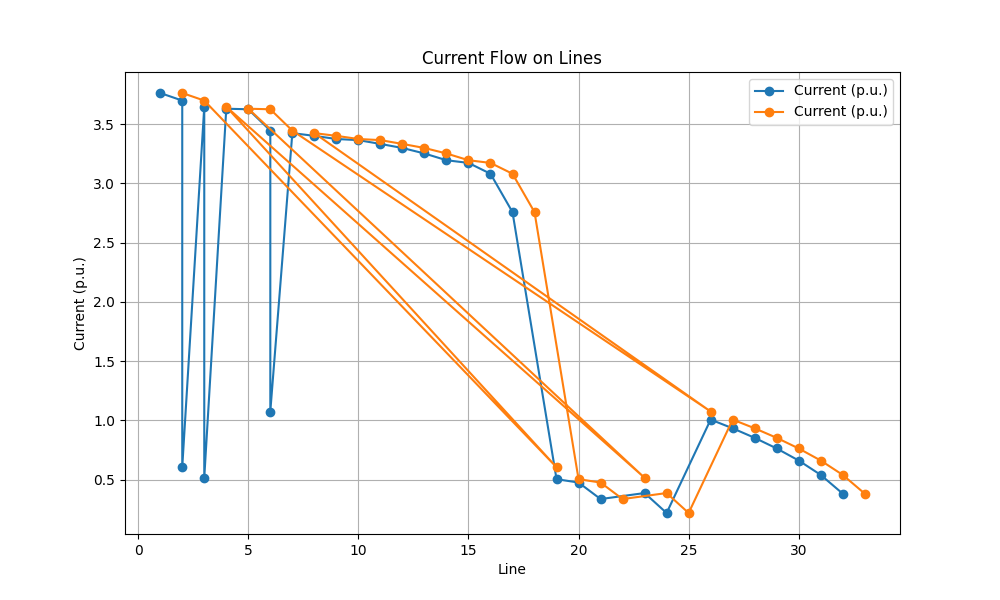
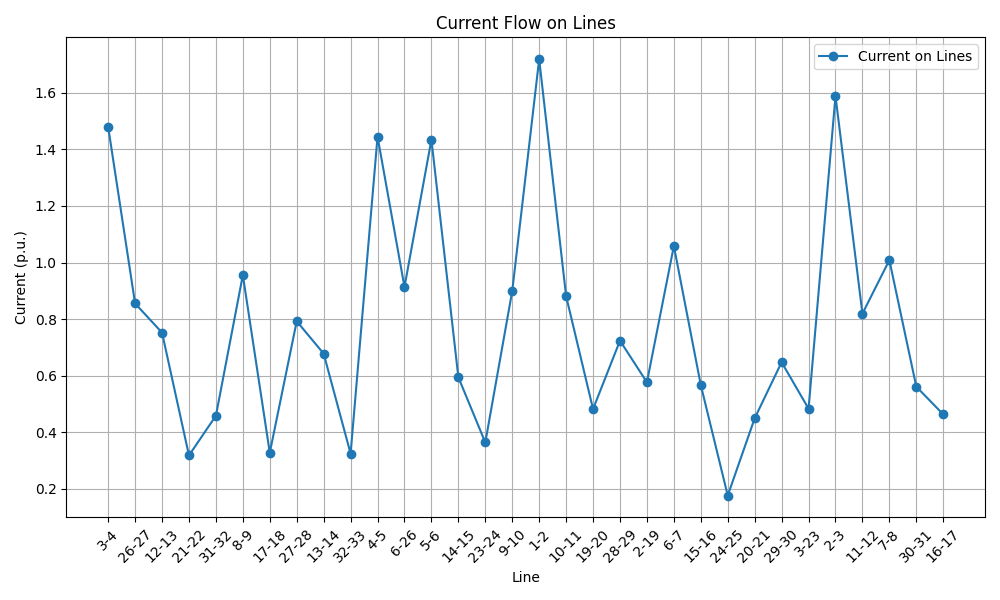
Fix input values for the power flow solver

diff --git a/MADRL/plot_res.py b/MADRL/plot_res.py
@@ -6,9 +6,9 @@ def plot_power_flow_results(results):
     # Plot Voltage Profiles at Buses
     plt.figure(figsize=(10, 6))
     voltages = results['Voltages']
-    buses = sorted(voltages.keys())
-    # Since voltages are stored squared, take the square root for plotting
-    plt.plot(buses, [np.sqrt(voltages[bus]) for bus in buses], 'o-', label='Voltage (p.u.)')
+    buses = voltages.keys()
+    voltage_values = [np.sqrt(voltage) for voltage in voltages.values()]
+    plt.plot(buses, voltage_values, 'o-', label='Voltage (p.u.)')
     plt.title('Voltage Profile Across Buses')
     plt.xlabel('Bus Number')
     plt.ylabel('Voltage (p.u.)')
@@ -20,42 +20,46 @@ def plot_power_flow_results(results):
     # Plot Currents on Lines
     plt.figure(figsize=(10, 6))
     currents = results['Currents']
-    lines = sorted(currents.keys())
-    # Currents may be stored directly as values or squared
-    plt.plot(lines, [np.sqrt(currents[line]) for line in lines], 'o-', label='Current (p.u.)')
+    lines = [f'{line[0]}-{line[1]}' for line in currents.keys()]
+    current_values = [np.sqrt(current) for current in currents.values()]
+    plt.plot(lines, current_values, 'o-', label='Current on Lines')
     plt.title('Current Flow on Lines')
     plt.xlabel('Line')
     plt.ylabel('Current (p.u.)')
+    plt.xticks(rotation=45)
     plt.grid(True)
     plt.legend()
+    plt.tight_layout()
     plt.savefig('MADRL/plots/pf_results/Current_Flow.png')
     plt.close()
 
     # Plot Active and Reactive Power Flows on Lines
     plt.figure(figsize=(10, 6))
     power_flows = results['Power Flows']
-    for line, (p_flow, q_flow) in power_flows.items():
-        plt.plot([line], [p_flow * S_NOM], 'o', label=f'{line} P (kW)')
-        plt.plot([line], [q_flow * S_NOM], 'x', label=f'{line} Q (kVar)')
-
+    lines = [f'{line[0]}-{line[1]}' for line in power_flows.keys()]
+    p_flows = [p_flow * S_NOM for p_flow, q_flow in power_flows.values()]
+    q_flows = [q_flow * S_NOM for p_flow, q_flow in power_flows.values()]
+    plt.plot(lines, p_flows, 'o-', label='Active Power (kW)')
+    plt.plot(lines, q_flows, 'x-', label='Reactive Power (kVar)')
     plt.title('Power Flows on Lines')
     plt.xlabel('Line')
     plt.ylabel('Power (kW, kVar)')
+    plt.xticks(rotation=45)  # Rotate labels to avoid collision
     plt.grid(True)
     plt.legend()
+    plt.tight_layout()  # Adjust layout to give enough space for label rotation
     plt.savefig('MADRL/plots/pf_results/Power_Flows.png')
     plt.close()
 
     # Plot Next Energy State of ESS
     plt.figure(figsize=(10, 6))
-    if 'Next ESS Energy' in results:
-        ess_energy = results['Next ESS Energy']
-        ess_ids = sorted(ess_energy.keys())
-        plt.bar(ess_ids, [ess_energy[ess] * S_NOM for ess in ess_ids], color='blue', label='Next ESS Energy (kWh)')
-        plt.title('Next Energy State of ESS')
-        plt.xlabel('ESS ID')
-        plt.ylabel('Energy (kWh)')
-        plt.grid(True)
-        plt.legend()
-        plt.savefig('MADRL/plots/pf_results/Next_ESS_Energy.png')
-        plt.close()
+    ess_energy = results['Next ESS Energy']
+    ess_ids = ess_energy.keys()
+    plt.bar(ess_ids, [ess_energy[ess] * S_NOM for ess in ess_ids], color='blue', label='Next ESS Energy (kWh)')
+    plt.title('Next Energy State of ESS')
+    plt.xlabel('ESS ID')
+    plt.ylabel('Energy (kWh)')
+    plt.grid(True)
+    plt.legend()
+    plt.savefig('MADRL/plots/pf_results/Next_ESS_Energy.png')
+    plt.close()

diff --git a/run_pf.py b/run_pf.py
@@ -12,24 +12,24 @@ logger = logging.getLogger(__name__)
 network_data = create_network()
 
 # Example Active and Reactive Power Demand in pu
-active_power_demand = {node: 0.1 for node in network_data['bus_numbers']}  # 10% of S_NOM
-reactive_power_demand = {node: 0.05 for node in network_data['bus_numbers']}  # 5% of S_NOM
+active_power_demand = {node: 0 if network_data['bus_types'][node] == 1 else 0.1 for node in network_data['bus_numbers']}
+reactive_power_demand = {node: 0 if network_data['bus_types'][node] == 1 else 0.005 for node in network_data['bus_numbers']}
 
 # Active Power Reduction capabilities at some buildings (Demand Response) in pu
 power_reduction = {node: active_power_demand[node] * MAX_POWER_REDUCTION_PERCENT for node in BUILDINGS}
 
 # Photovoltaic Power Generation at certain buses in pu
-pv_power = {node: PV_CAPACITY for node in PV_NODES}
+pv_power = {node: 0.5 * PV_CAPACITY for node in PV_NODES}
 
 # Photovoltaic Reactive Power Generation (if applicable) in pu
-pv_reactive_power = {node: pv_power[node] * 0.1 for node in PV_NODES}  # Assuming 10% of PV power can be reactive
+pv_reactive_power = {node: 0 for node in PV_NODES} 
 
 # Energy Storage System Charging and Discharging Power in pu
 ess_charging = {node: P_CH_MAX for node in ESS_NODES}
 ess_discharging = {node: 0 for node in ESS_NODES}
 
 # Initial Energy Content of Energy Storage Systems in pu
-initial_ess_energy = {node: E_MAX / 2 for node in ESS_NODES}  # Initial state halfway to E_MAX
+initial_ess_energy = {node: E_MAX / 2 for node in ESS_NODES}  
 
 # Execute the power flow solver
 results = power_flow_solver(network_data, active_power_demand, reactive_power_demand, power_reduction, pv_power, pv_reactive_power, ess_charging, ess_discharging, initial_ess_energy)

diff --git a/MADRL/pf.py b/MADRL/pf.py
@@ -4,6 +4,8 @@ from OPF.constants import ETA_CH, ETA_DIS
 import numpy as np
 
 def power_flow_solver(network_data, active_power_demand, reactive_power_demand, power_reduction, pv_active_power, pv_reactive_power, ess_charging, ess_discharging, initial_ess_energy):
+    
+    # Define the model
     model = pyo.ConcreteModel()
 
     # Define Sets
